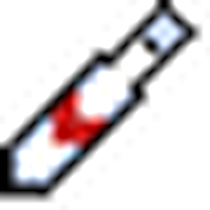
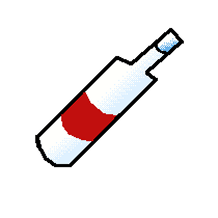
feat: light

diff --git a/inventory.py b/inventory.py
@@ -59,5 +59,21 @@ class Inventory:
             lx = SCREEN_WIDTH//2 + 200
             ly = SCREEN_HEIGHT - 75
             self.screen.blit(item.texture_size(self._ammo_size), (lx, ly))
-            code_label = Fonts.font_ammo.render(str(len(self.user.ammo_items)), True, WHITE)
+            code_label = Fonts.font_inventory.render(str(len(self.user.ammo_items)), True, WHITE)
             self.screen.blit(code_label, (lx + self._ammo_size, ly + self._ammo_size//2))
+
+        if self.user.has_speed_boost and self.user.effect_time_remaining is not None:
+            self.screen.blit(Assets.vodka, (SCREEN_WIDTH//2 - 350, SCREEN_HEIGHT - 100))
+            label = Fonts.font_inventory.render(str(math.floor(self.user.effect_time_remaining)), True, WHITE)
+            self.screen.blit(label, (SCREEN_WIDTH//2 - 350 + Assets.vodka.get_width()//2 + 16, SCREEN_HEIGHT - 100 + Assets.vodka.get_height()//2))
+
+        light_image = None
+        if self.user.light_enabled:
+            light_image = Assets.light_on
+        else:
+            light_image = Assets.light_off
+
+        if light_image is not None:
+            self.screen.blit(light_image, (SCREEN_WIDTH//2 - 250, SCREEN_HEIGHT - 100))
+            label = Fonts.font_inventory.render('L', True, WHITE)
+            self.screen.blit(label, (SCREEN_WIDTH//2 - 250 + light_image.get_width()//2 + 16, SCREEN_HEIGHT - 100 + light_image.get_height()//2))

diff --git a/game.py b/game.py
@@ -7,7 +7,6 @@ from health import *
 from inventory import *
 from sprite.human_sprite import *
 from interaction import *
-from effect import *
 from pygame.event import Event
 from map_config import *
 from mock.map_mocked import *
@@ -37,7 +36,6 @@ class Game:
         self.minimap = Minimap(screen, self.user, self.map_config)
         self.pygame_actions = PygameActions(self.user, self.screen)
         self.interaction = Interaction(self.screen, self.user)
-        self.effect = Effect(self.screen, self.user)
 
         self.sprite_interact = None
         self.event = None
@@ -100,9 +98,8 @@ class Game:
         self.minimap.draw()
         self.health.draw()
         self.battery.draw()
-        self.inventory.draw()
         self.sprite_interact = self.interaction.handle_interaction()
-        self.effect.draw()
+        self.inventory.draw()
 
         if not self.user.is_dead and not self.user.has_win and not self.game_menu:
             self.pygame_actions.actions(self.sprite_interact, self.event)

diff --git a/constants/assets.py b/constants/assets.py
@@ -21,6 +21,9 @@ class Assets:
 
     gun_selected: Surface | None = None
 
+    light_off: Surface | None = None
+    light_on: Surface | None = None
+
     dead_screen: Surface | None = None
     win_screen: Surface | None = None
 
@@ -102,3 +105,12 @@ class Assets:
 
         Assets.dead_screen = pygame.image.load('./assets/screens/dead-screen.png').convert_alpha()
         Assets.win_screen = pygame.image.load('./assets/screens/win-screen.png').convert_alpha()
+
+        Assets.light_off = pygame.transform.scale(
+            pygame.image.load('./assets/game/items/light-off.png').convert_alpha(),
+            (Assets.item_size, Assets.item_size)
+        )
+        Assets.light_on = pygame.transform.scale(
+            pygame.image.load('./assets/game/items/light-on.png').convert_alpha(),
+            (Assets.item_size, Assets.item_size)
+        )

diff --git a/constants/fonts.py b/constants/fonts.py
@@ -5,8 +5,7 @@ class Fonts:
     font_subtitle = None
     font_btn = None
     font_error_bubble = None
-    font_effect = None
-    font_ammo = None
+    font_inventory = None
 
     @staticmethod
     def load():
@@ -14,5 +13,4 @@ class Fonts:
         Fonts.font_subtitle = pygame.font.Font("./assets/fonts/pixel.otf", 18)
         Fonts.font_error_bubble = pygame.font.Font("./assets/fonts/pixel.otf", 14)
         Fonts.font_btn      = pygame.font.Font("./assets/fonts/pixel.otf", 20)
-        Fonts.font_effect      = pygame.font.Font("./assets/fonts/pixel.otf", 48)
-        Fonts.font_ammo      = pygame.font.Font("./assets/fonts/pixel.otf", 24)
+        Fonts.font_inventory      = pygame.font.Font("./assets/fonts/pixel.otf", 24)

diff --git a/ray_casting.py b/ray_casting.py
@@ -199,8 +199,6 @@ class RayCasting:
             x_end   = center_x + sprite_width // 2
 
             texture = sprite.texture
-            tex_w = texture.get_width()
-            tex_h = texture.get_height()
             
             if isinstance(sprite, ObjectSprite):
                 y_start = screen_height // 2 + sprite_height

diff --git a/sprite/door_sprite.py b/sprite/door_sprite.py
@@ -10,6 +10,6 @@ class DoorSprite(CollisionSprite):
         super().show_dialog(screen, user.can_open_door)
 
     def handle_open(self, user):
-        if user.can_open_door:
+        if user.can_open_door and not self.is_open:
             user.use_key()
             super().handle_open()
